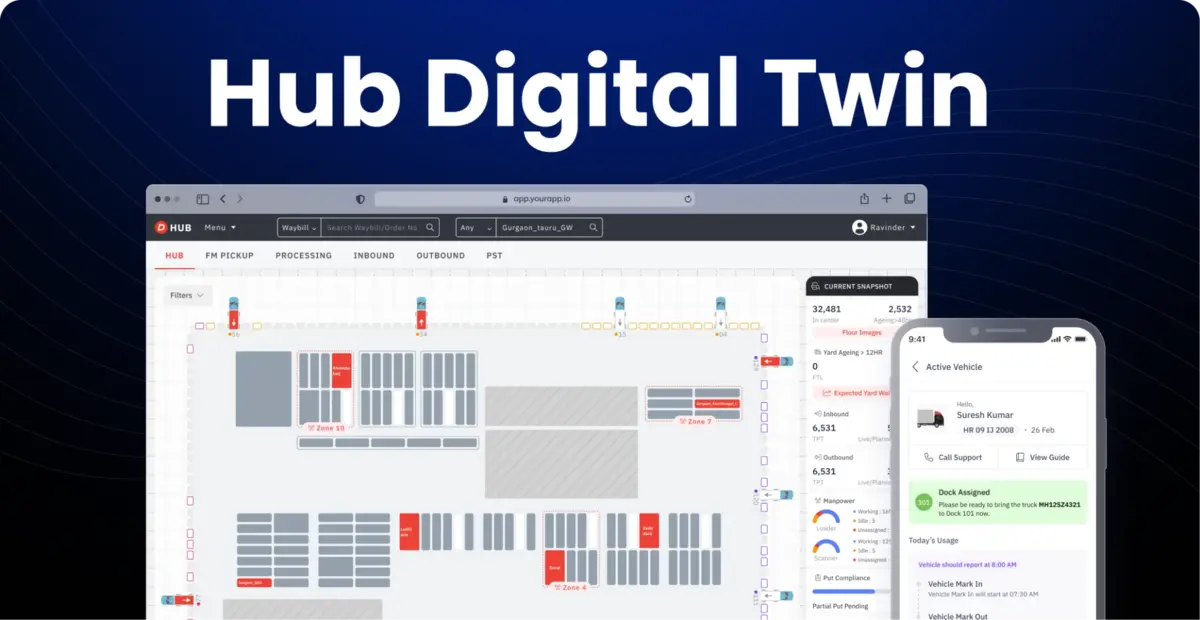
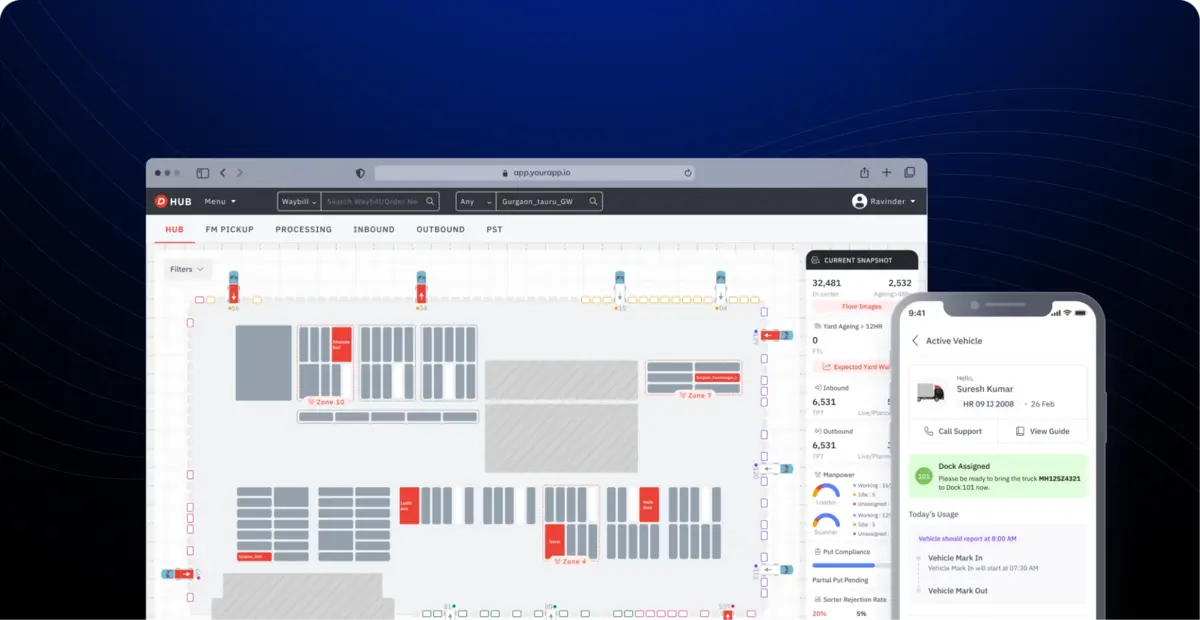
Hub Digital Twin: new profile thumbnail
Claude-Session: https://claude.ai/code/session_01WMc7YTtVs6fNmpr8MJ9aCK

Changed region(s): [[0.1233, 0.0613, 0.925, 1.0]]

diff --git a/profile.html b/profile.html
@@ -284,7 +284,7 @@
           <p class="card-sub">Five case studies and the outcomes they drove.</p>
           <div class="featured">
           <a class="feat feat-wide" href="./hubeye.html">
-            <div class="feat-img"><img src="./images/hubeye/hubeye-cover.webp" alt="Hub Digital Twin case study cover" loading="lazy" /></div>
+            <div class="feat-img"><img src="./images/hubeye/hubeye-cover.webp?v=2" alt="Hub Digital Twin case study cover" loading="lazy" /></div>
             <div class="feat-body">
               <div class="feat-title">Hub Digital Twin</div>
               <div class="feat-meta">Delhivery · put compliance 72% → 79%</div>
